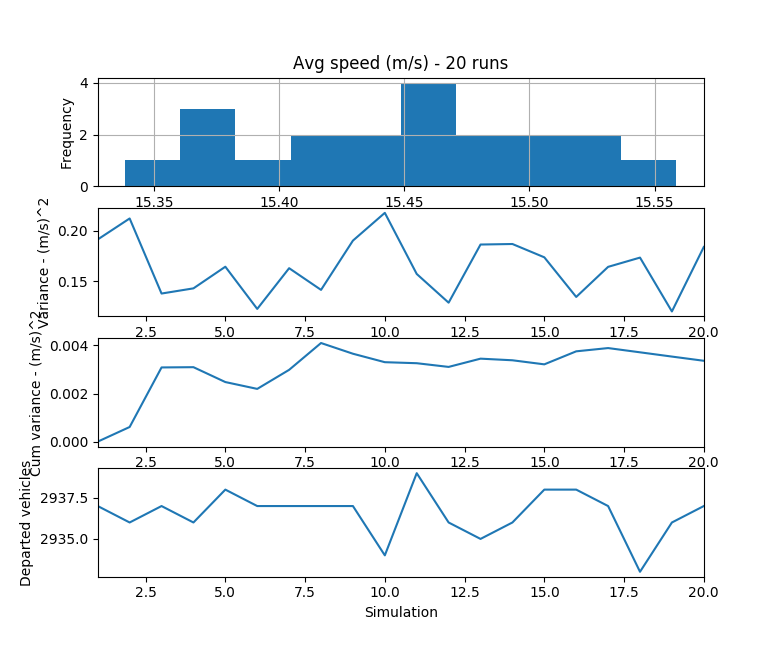
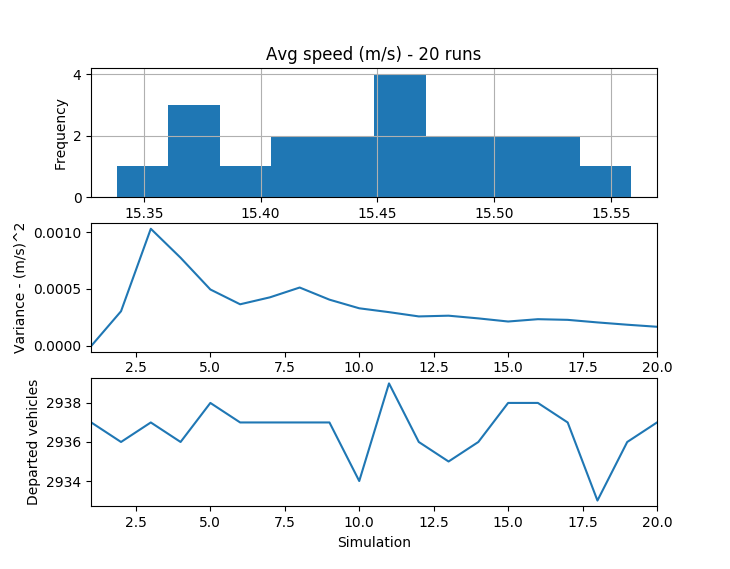
Update plots of scenario2

diff --git a/scenario2/plot.py b/scenario2/plot.py
@@ -1,0 +1,37 @@
+import pandas as pd
+import sys
+
+import matplotlib
+matplotlib.use('TkAgg')
+
+import matplotlib.pyplot as plt
+
+csv_file = sys.argv[1]
+df = pd.read_csv(csv_file, index_col=0)
+
+#Variance2 = Variance of the sample mean
+df['cum_variance2'] = df['cum_variance']/df.index
+
+print(df)
+
+print("Mean speed: {} m/s".format(df['mean_speed'].mean()))
+
+fig, (p1,p2,p3) = plt.subplots(3,1,sharex=False, sharey=False)
+
+df['mean_speed'].hist(ax=p1)
+p1.set_title("Avg speed (m/s) - {} runs".format(len(df)))
+p1.set_xlabel("Speed - m/s")
+p1.set_ylabel("Frequency")
+
+#df['cum_variance'].plot(ax=p2, use_index=True)
+#p2.set_xlabel("Minute")
+#p2.set_ylabel("Variance - (m/s)^2")
+
+df['cum_variance2'].plot(ax=p2, use_index=True)
+p2.set_xlabel("Simulation")
+p2.set_ylabel("Variance - (m/s)^2")
+
+df['departed'].plot(ax=p3, use_index=True)
+p3.set_xlabel("Simulation")
+p3.set_ylabel("Departed vehicles")
+plt.show()

diff --git a/scenario2/sumo.py b/scenario2/sumo.py
@@ -111,28 +111,8 @@ data.update(all_link_speeds)
 
 df = pd.DataFrame(data, index=np.arange(1, number_runs + 1).tolist())
 
-print("Final stats:")
-print(df)
-
-fig, (p1,p2,p3,p4) = plt.subplots(4,1,sharex=False, sharey=False)
-
-df['mean_speed'].hist(ax=p1)
-p1.set_title("Avg speed (m/s) - {} runs".format(number_runs))
-p1.set_xlabel("Speed - m/s")
-p1.set_ylabel("Frequency")
-
-df['variance'].plot(ax=p2, use_index=True, label="variance")
-p2.set_xlabel("Simulation")
-p2.set_ylabel("Variance - (m/s)^2")
-
-df['cum_variance'].plot(ax=p3, use_index=True, label="cum. variance")
-p3.set_xlabel("Simulation")
-p3.set_ylabel("Cum variance - (m/s)^2")
-
-df['departed'].plot(ax=p4, use_index=True)
-p4.set_xlabel("Simulation")
-p4.set_ylabel("Departed vehicles")
-plt.show()
+filename = "{}runs.csv".format(number_runs)
+df.to_csv(filename)
 
 for link in all_link_speeds:
     df[link].plot(use_index=True, label=link)
